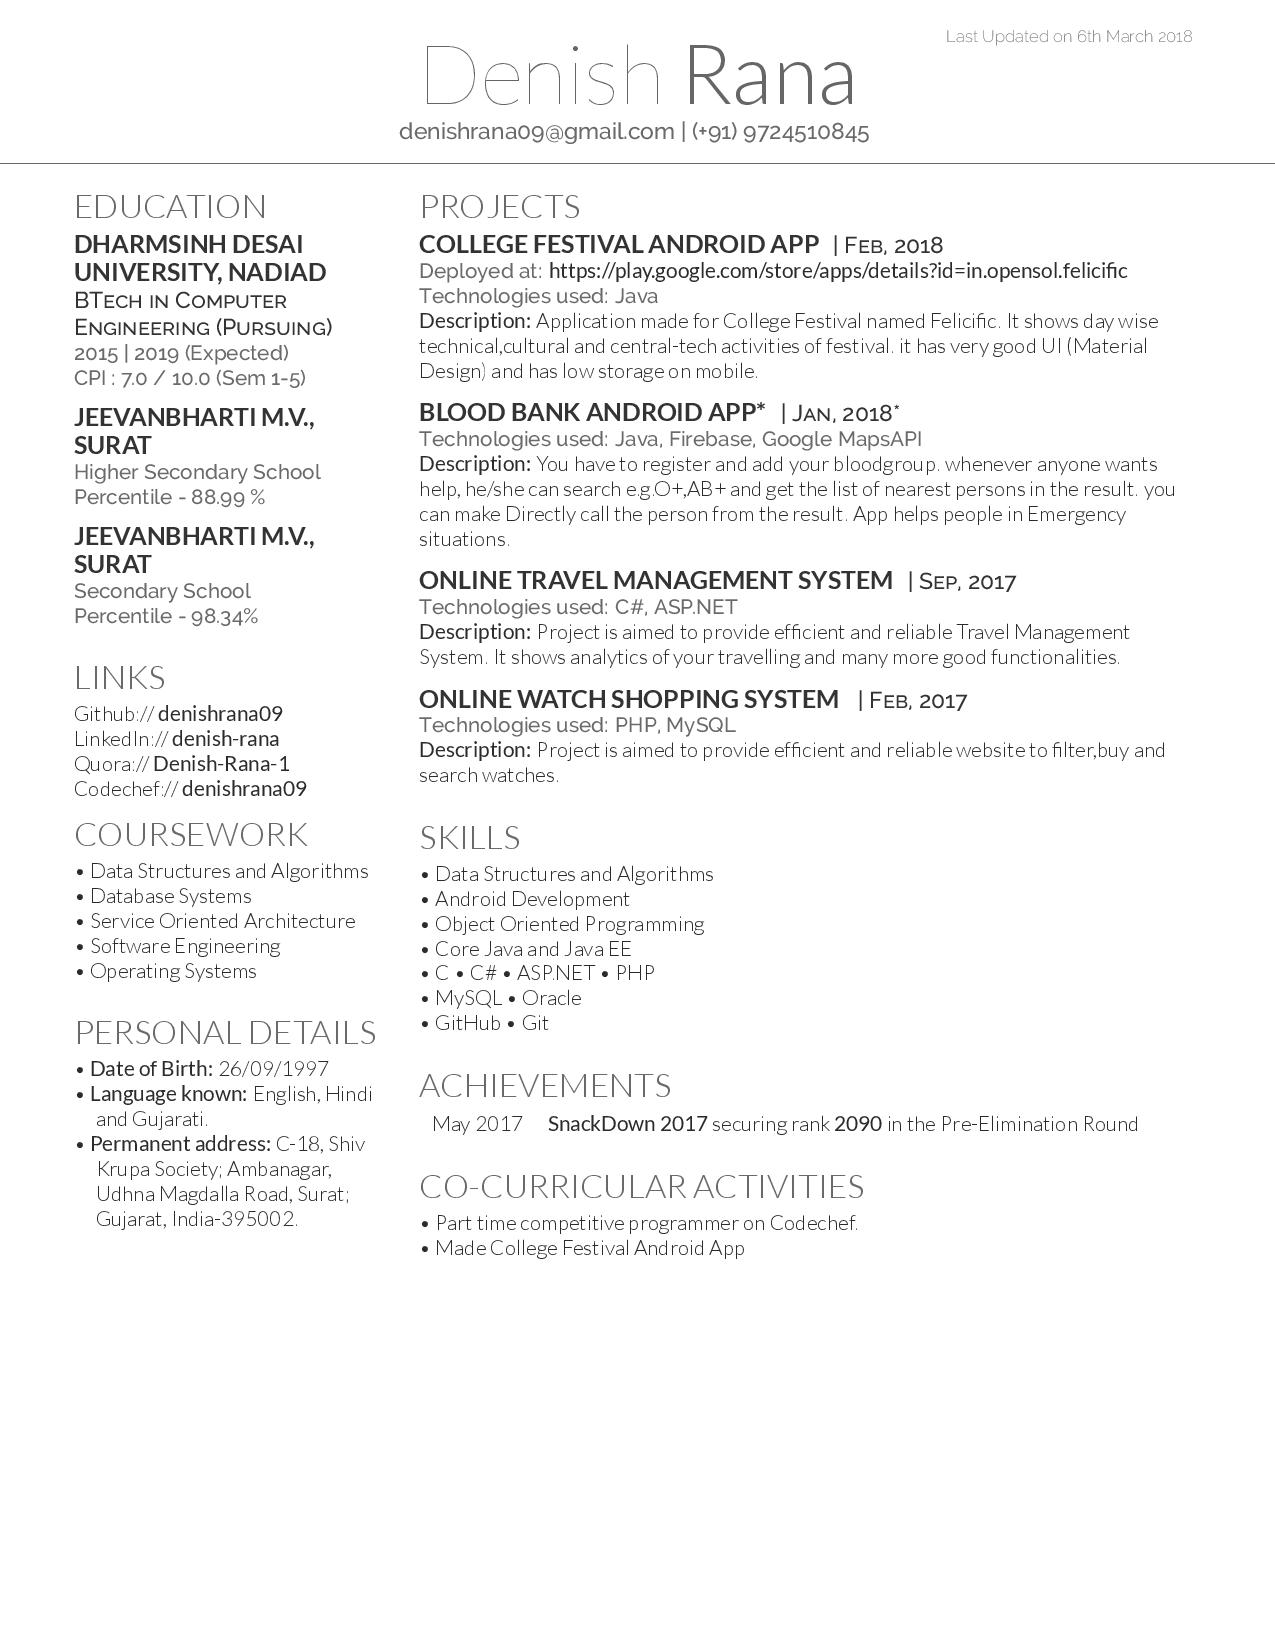
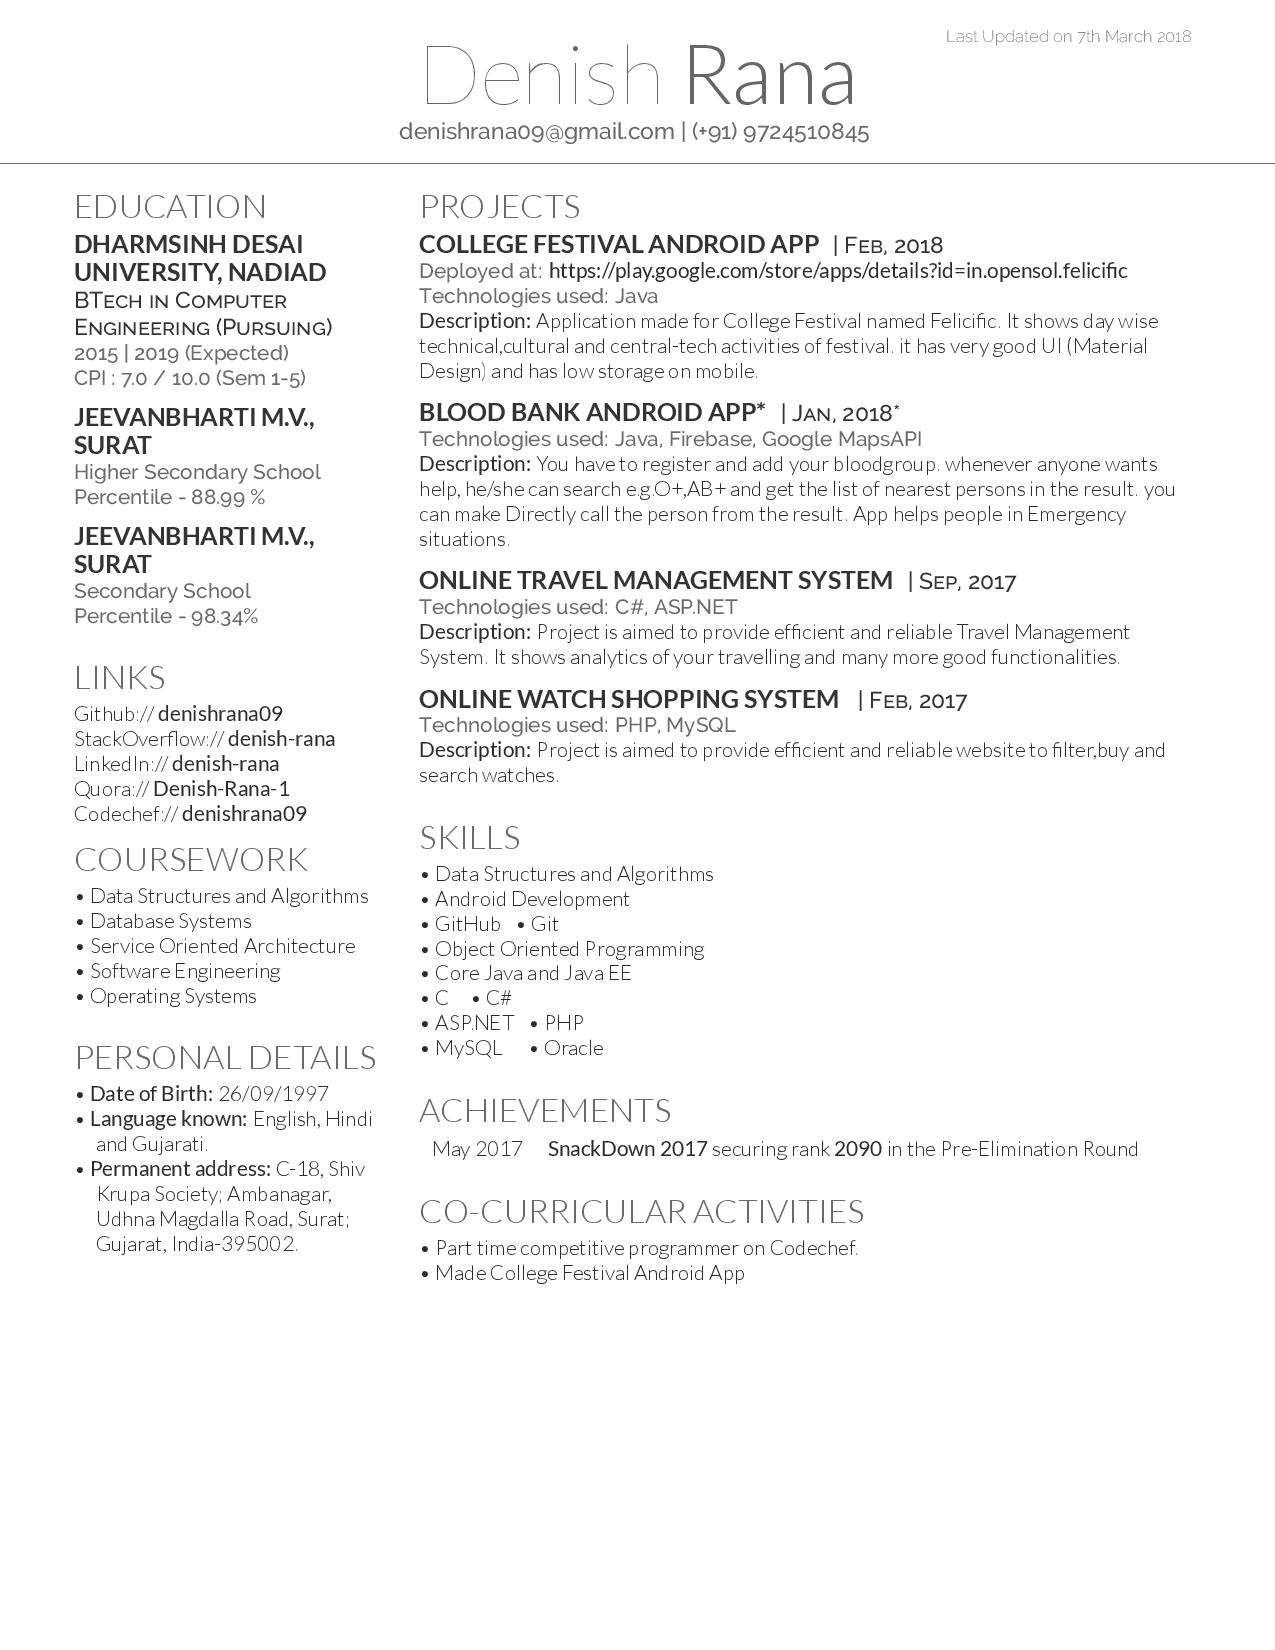
updated

Changed region(s): [[0.0612, 0.4327, 0.3059, 0.7727], [0.3365, 0.5564, 0.7341, 0.7727], [0.7953, 0.68, 0.8871, 0.7109]]

diff --git a/Denish Resume/denish_resume.tex b/Denish Resume/denish_resume.tex
@@ -79,6 +79,7 @@
 \section{Links}
 
 Github:// \href{https://github.com/denishrana09}{\bf denishrana09} \\
+StackOverflow:// \href{https://stackoverflow.com/users/8018480/denish-rana}{\bf denish-rana} \\
 LinkedIn://  \href{https://www.linkedin.com/in/denish-rana/}{\bf denish-rana} \\
 Quora://  \href{https://www.quora.com/profile/Denish-Rana-1}{\bf Denish-Rana-1} \\
 Codechef:// \href {https://www.codechef.com/users/denishrana09}{\bf denishrana09} \\
@@ -157,11 +158,12 @@ Codechef:// \href {https://www.codechef.com/users/denishrana09}{\bf denishrana09
 
 \textbullet{} Data Structures and Algorithms \\
 \textbullet{} Android Development \\
+\textbullet{} GitHub \hspace{1mm} \textbullet{} Git \\
 \textbullet{} Object Oriented Programming \\
 \textbullet{} Core Java and Java EE \\
-\textbullet{} C \textbullet{} C\# \textbullet{} ASP.NET \textbullet{} PHP  \\ 
-\textbullet{} MySQL \textbullet{} Oracle\\
-\textbullet{} GitHub \textbullet{} Git \\
+\textbullet{} C \hspace{2mm} \textbullet{} C\# \\
+\textbullet{} ASP.NET \hspace{1mm} \textbullet{} PHP  \\ 
+\textbullet{} MySQL \hspace{3mm} \textbullet{} Oracle\\
 \sectionsep
 
 
